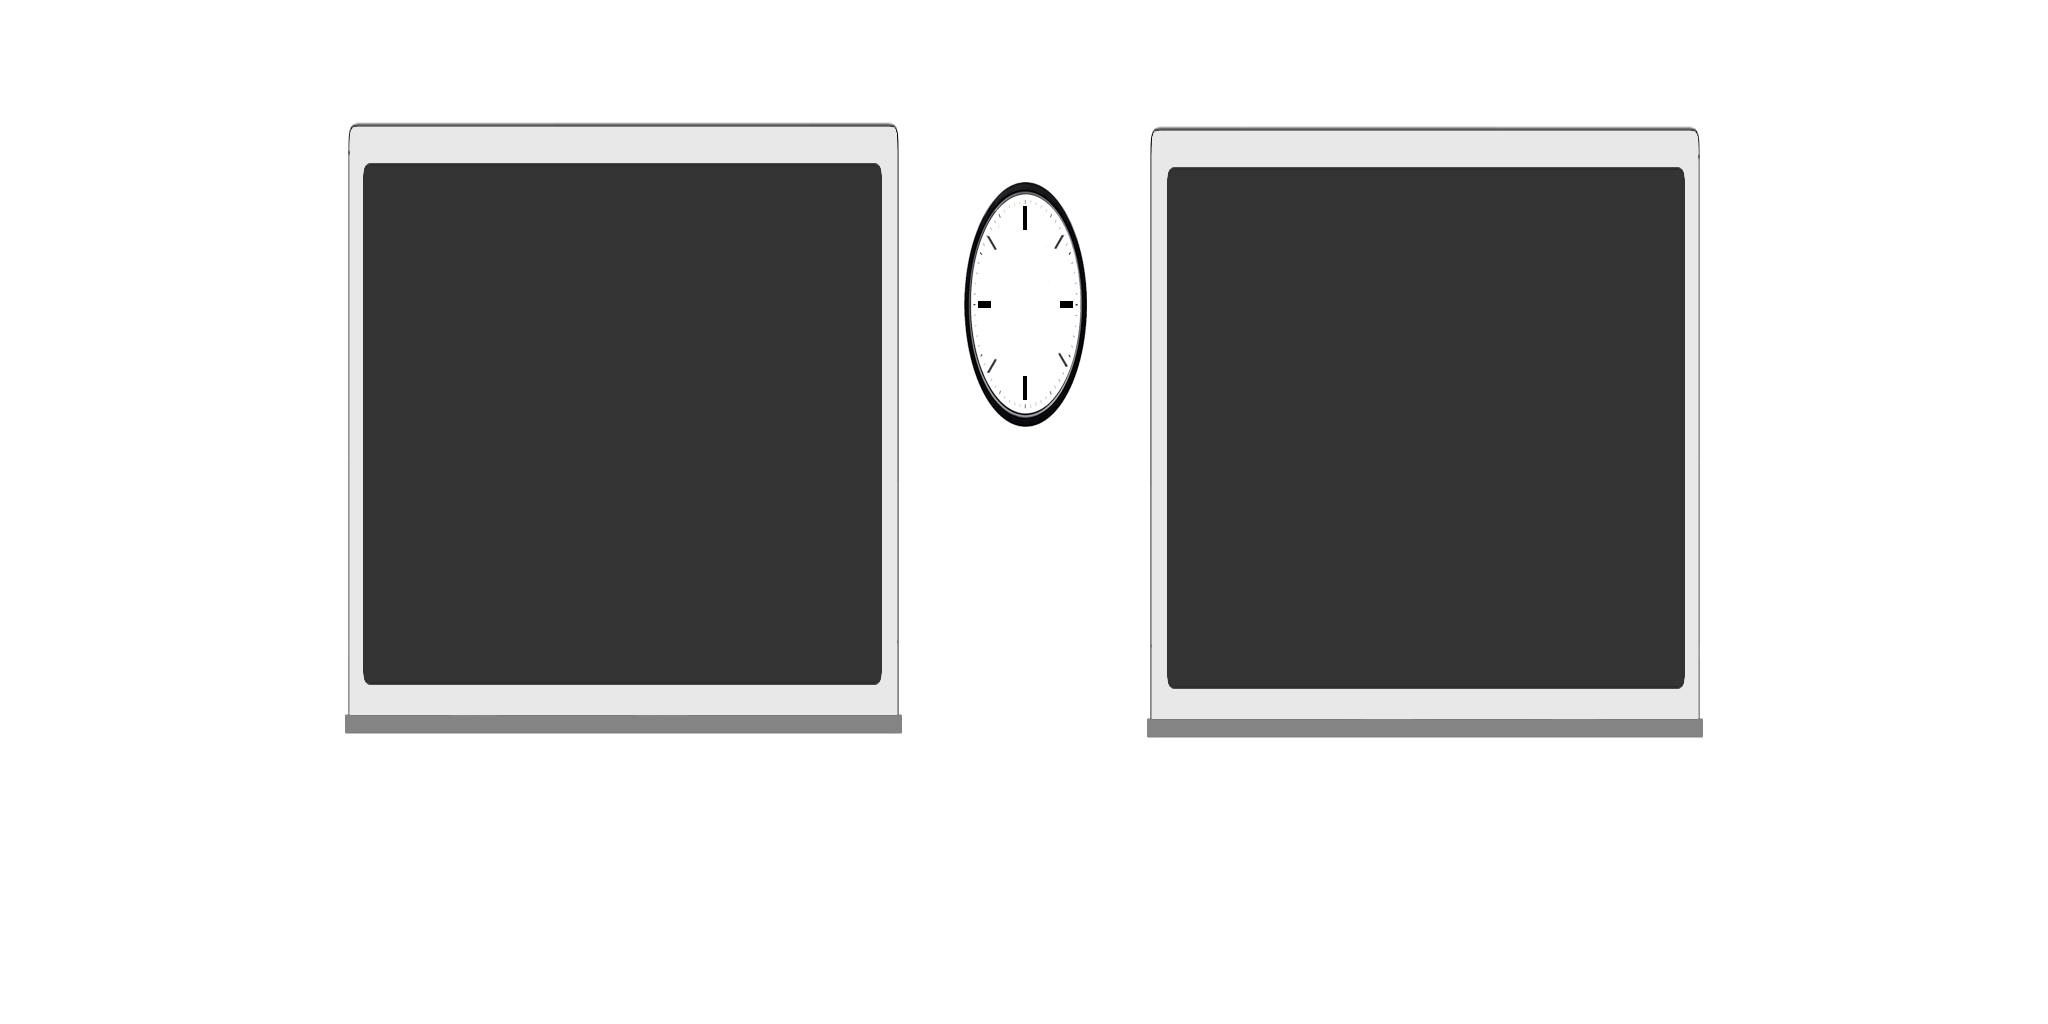
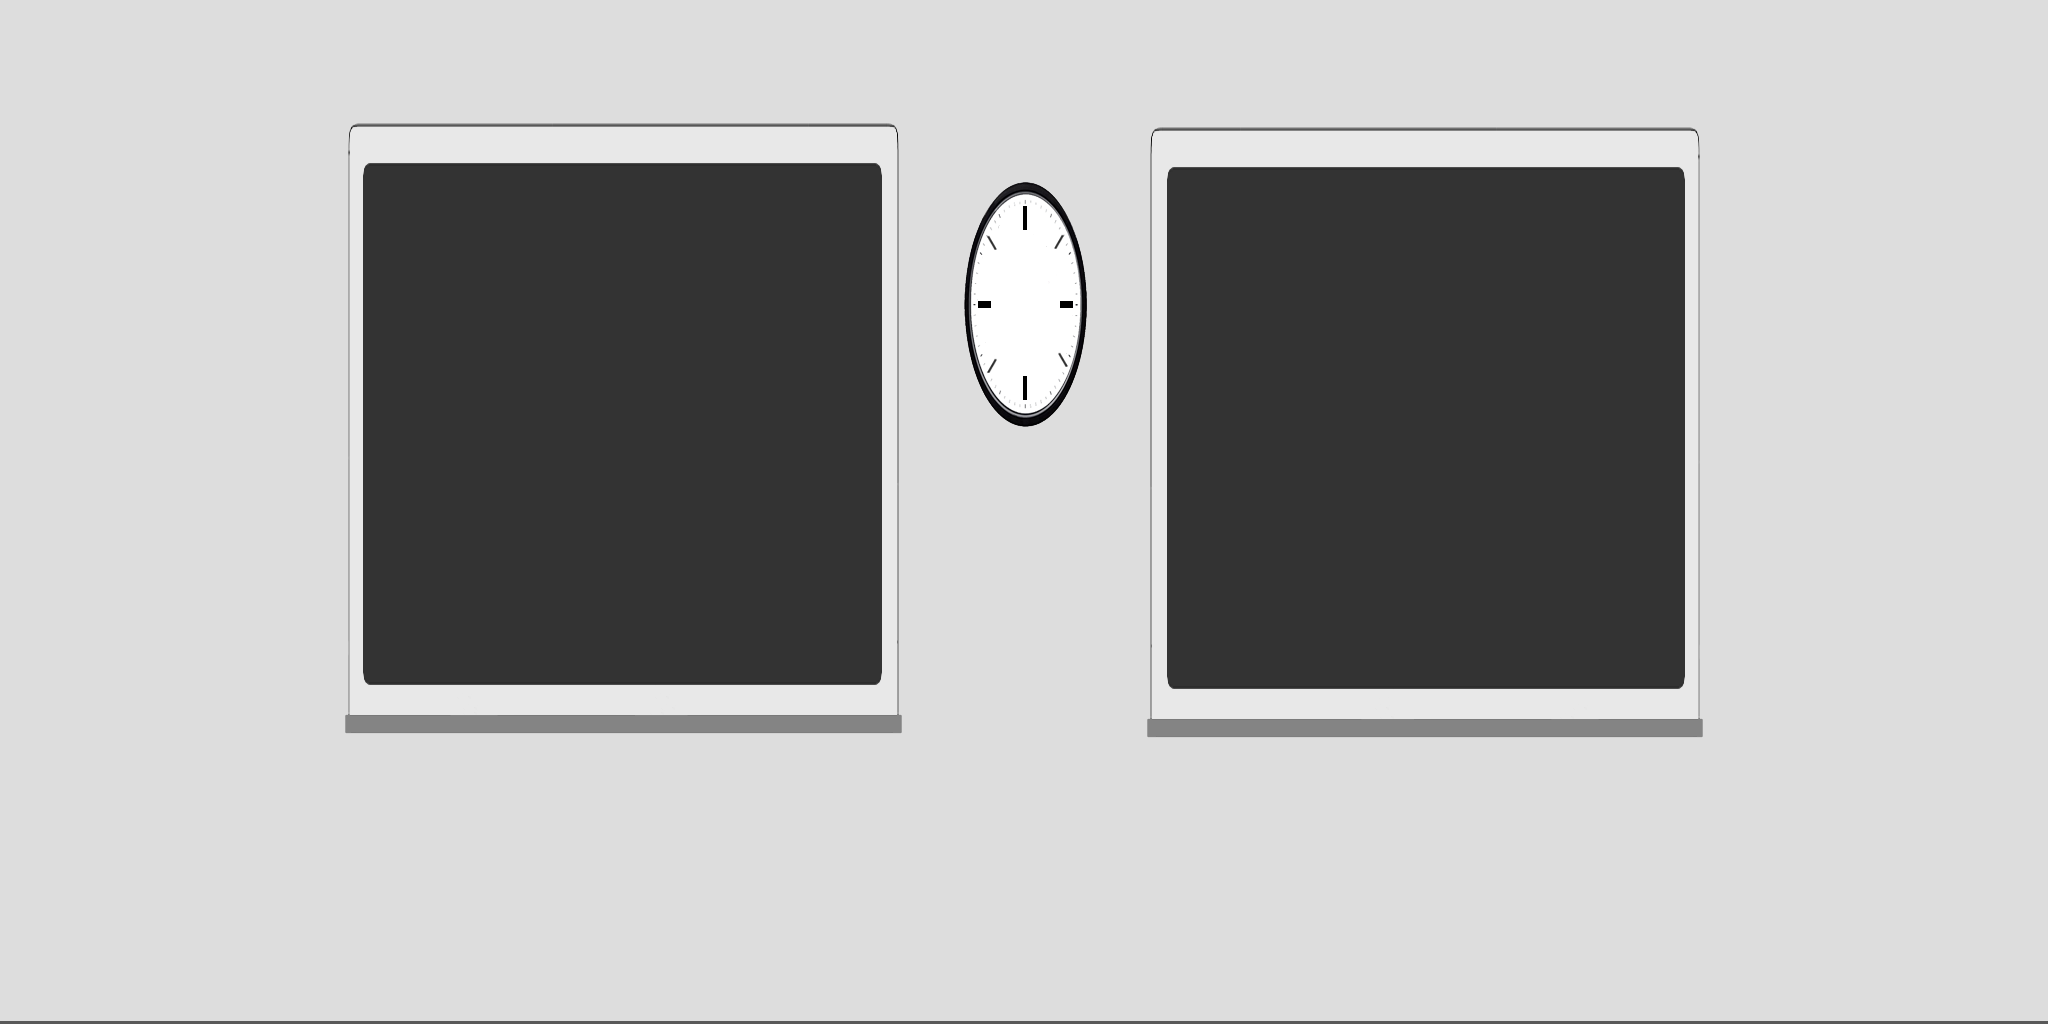
new scene

diff --git a/scene.js b/scene.js
@@ -80,16 +80,16 @@ class Scene {
 	AddRoom()																					// ADD ROOM TO SCENE
 	{	
 		var _this=this;																				// Save context
-		if (this.floor) 		addWall(0,0,0,-Math.PI/2,0,0,1024,this.floor,1,0);					// If a floor spec'd
-		if (this.frontWall) 	addWall(0,128,512,0,Math.PI,0,256,this.frontWall,0,0);				// If a front wall spec'd
-		if (this.backWall) 		addWall(0,128,-512,0,0,0,256,this.backWall,0,0);					// If a back wall spec'd
-		if (this.leftWall) 		addWall(-512,128,0,0,Math.PI/2,0,256,this.leftWall,0,0);			// If a left wall spec'd
-		if (this.rightWall)	 	addWall(512,128,0,0,-Math.PI/2,0,256,this.rightWall,0,0);			// If a right wall spec'd
+		addWall(0,0,0,-Math.PI/2,0,0,1024,this.floor,1);											// Add floor
+		if (this.frontWall) 	addWall(0,128,512,0,Math.PI,0,256,this.frontWall,0);				// If a front wall spec'd
+		if (this.backWall) 		addWall(0,128,-512,0,0,0,256,this.backWall,0);						// If a back wall spec'd
+		if (this.leftWall) 		addWall(-512,128,0,0,Math.PI/2,0,256,this.leftWall,0);				// If a left wall spec'd
+		if (this.rightWall)	 	addWall(512,128,0,0,-Math.PI/2,0,256,this.rightWall,0);				// If a right wall spec'd
 
-		function addWall(x, y, z, xr, yr, zr, h, texture, wrap, cartoon) {							// ADD WALL
+		function addWall(x, y, z, xr, yr, zr, h, texture, wrap) {									// ADD WALL
 			var mat=new THREE.MeshPhongMaterial();													// Make material
-			mat.color=new THREE.Color(cartoon ? 0xeeeeee : 0xffffff);								// Set color
-			if (!cartoon) {																			// If a cartoon scene
+			mat.color=new THREE.Color(wrap ? 0xf0f0f0 : 0xffffff);									// Set color
+			if (texture) {																			// If a texture
 				mat.userData.outlineParameters= { visible: false };									// Hide outline
 				var tex=_this.textureLoader.load(texture);											// Load texture
 				if (wrap) {																			// If wrapping
